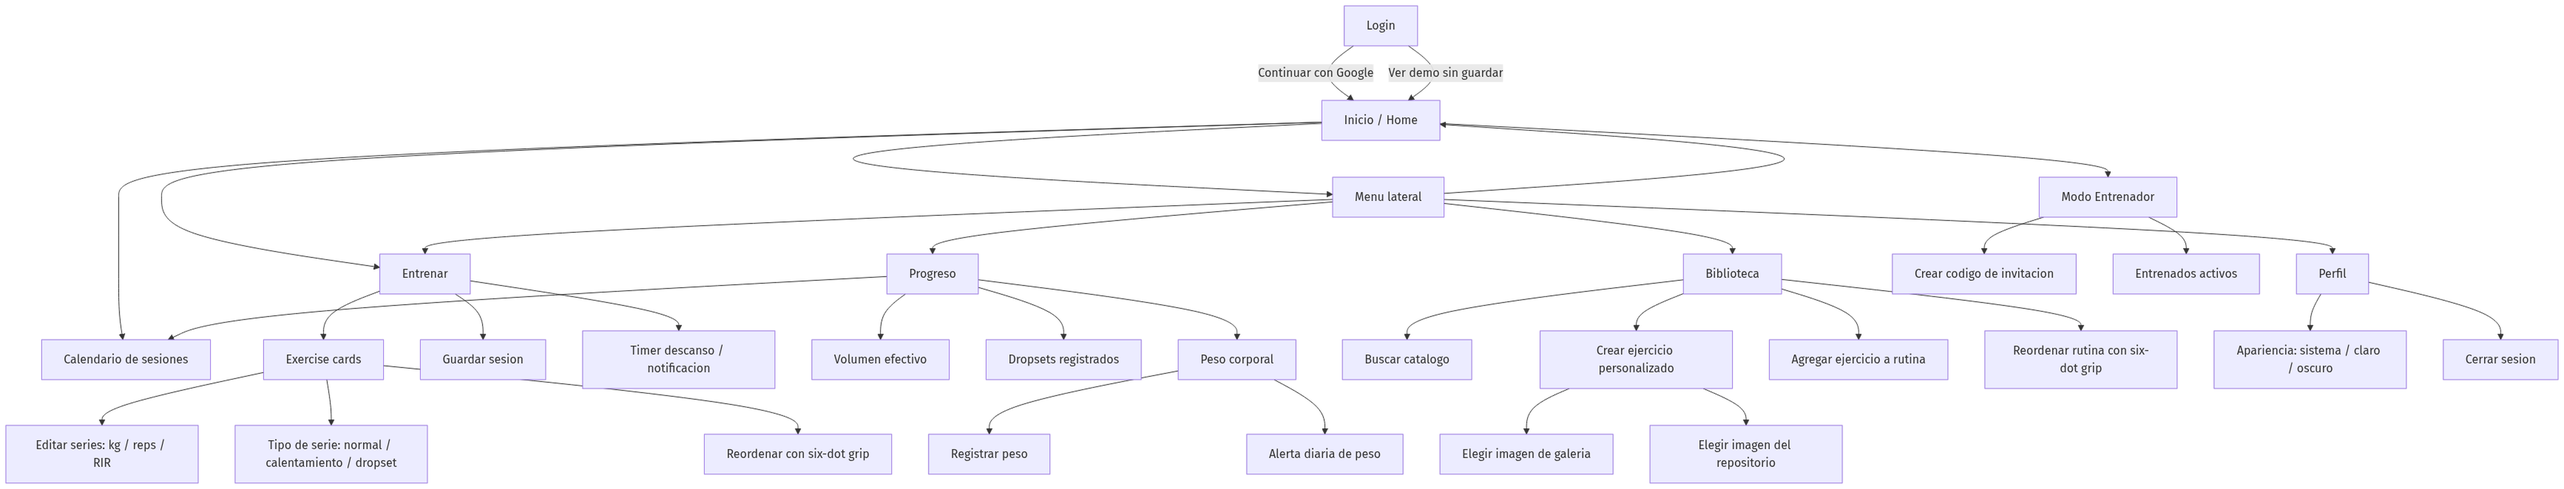
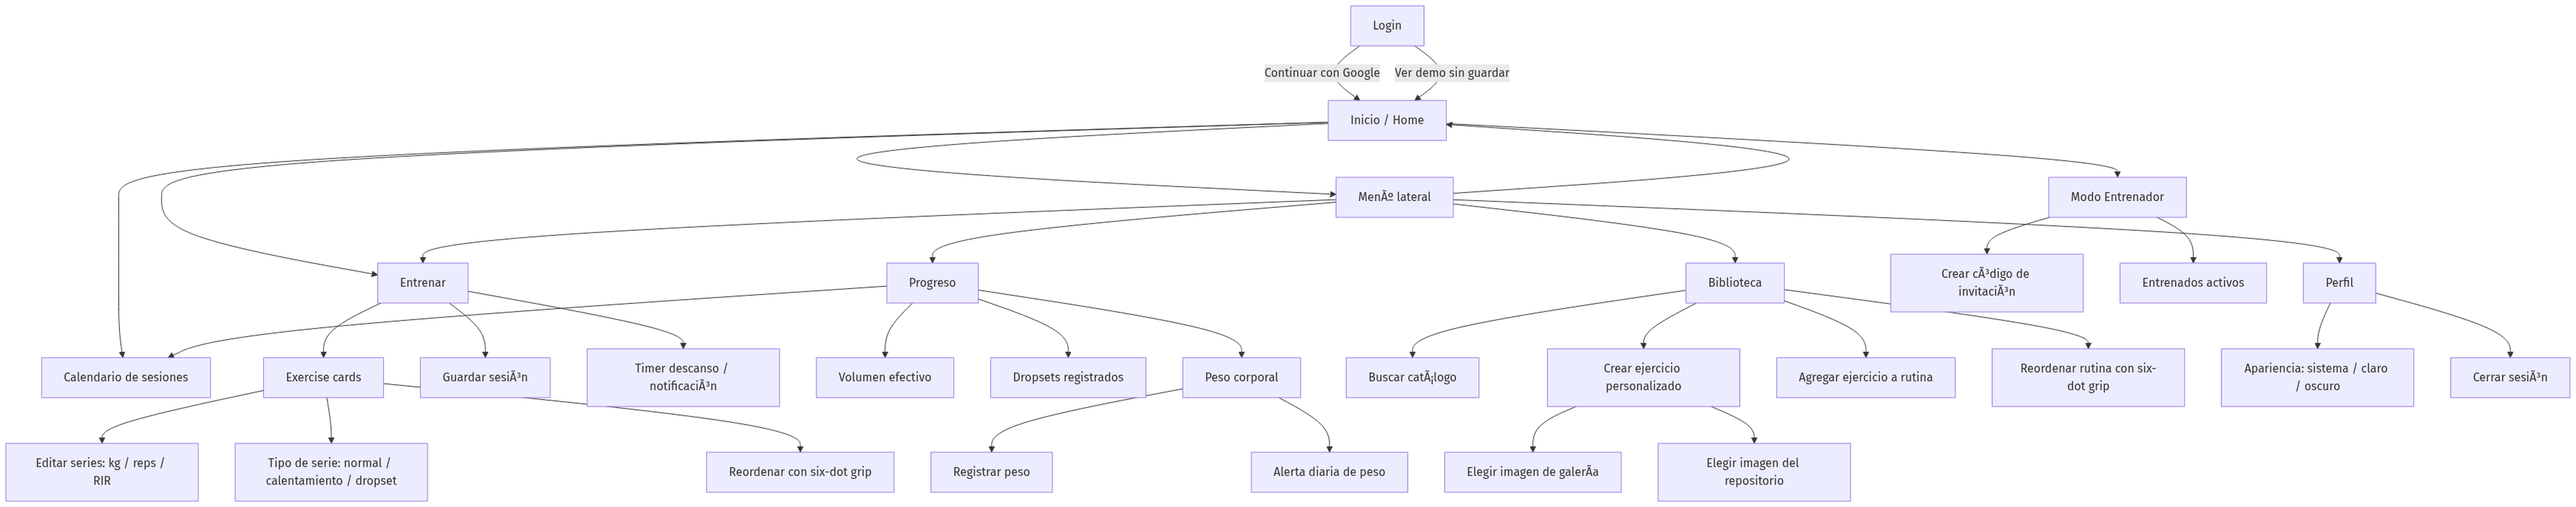
fix: restore Spanish diacritics in Flutter UI

diff --git a/apps/agujetas_flutter/lib/main.dart b/apps/agujetas_flutter/lib/main.dart
@@ -170,13 +170,13 @@ class _LoginScreenState extends State<LoginScreen> {
                   ),
                   const SizedBox(height: 24),
                   Text(
-                    'Entrena con precision.',
+                    'Entrena con precisión.',
                     style: Theme.of(context).textTheme.titleLarge,
                     textAlign: TextAlign.center,
                   ),
                   const SizedBox(height: 8),
                   Text(
-                    'Registra tu progreso con elegancia y manten el foco en lo que importa.',
+                    'Registra tu progreso con elegancia y mantén el foco en lo que importa.',
                     style: Theme.of(context).textTheme.bodyMedium?.copyWith(
                       color: colors.textSecondary,
                     ),
@@ -213,7 +213,7 @@ class _LoginScreenState extends State<LoginScreen> {
                   ),
                   const SizedBox(height: 14),
                   Text(
-                    'Al continuar, aceptas la sincronizacion segura de tus entrenamientos via Firebase Auth y Firestore. No usamos Storage en el plan gratuito.',
+                    'Al continuar, aceptas la sincronización segura de tus entrenamientos vía Firebase Auth y Firestore. No usamos Storage en el plan gratuito.',
                     style: Theme.of(context).textTheme.labelMedium,
                     textAlign: TextAlign.center,
                   ),
@@ -236,7 +236,7 @@ class _LoginScreenState extends State<LoginScreen> {
     try {
       await widget.repository.signInWithGoogle();
     } catch (error) {
-      setState(() => _error = 'No se pudo iniciar sesion: $error');
+      setState(() => _error = 'No se pudo iniciar sesión: $error');
     } finally {
       if (mounted) {
         setState(() => _loading = false);
@@ -254,7 +254,7 @@ class _LoginFeatureRow extends StatelessWidget {
     const items = [
       (Icons.sync, 'Sincronizar'),
       (Icons.insights, 'Progreso'),
-      (Icons.library_books_outlined, 'Catalogo'),
+      (Icons.library_books_outlined, 'Catálogo'),
     ];
     return Row(
       mainAxisAlignment: MainAxisAlignment.spaceEvenly,
@@ -471,7 +471,7 @@ class _HomeDashboardState extends State<HomeDashboard> {
     try {
       final invite = await widget.repository.createTrainerInvite(widget.user);
       widget.onInviteCreated(invite.code);
-      widget.onNotice('Codigo de invitacion creado: ${invite.code}');
+      widget.onNotice('Código de invitación creado: ${invite.code}');
     } finally {
       if (mounted) setState(() => _busy = false);
     }
@@ -491,7 +491,7 @@ class _HomeDashboardState extends State<HomeDashboard> {
       );
       _inviteController.clear();
     } catch (error) {
-      widget.onNotice('No se pudo aceptar el codigo: $error');
+      widget.onNotice('No se pudo aceptar el código: $error');
     } finally {
       if (mounted) setState(() => _busy = false);
     }
@@ -521,11 +521,11 @@ class _TrainerPanel extends StatelessWidget {
           icon: Icons.group_add_outlined,
           title: 'Sumar entrenados',
           subtitle: inviteCode == null
-              ? 'Genera un codigo para vincular usuarios.'
-              : 'Codigo activo: $inviteCode',
+              ? 'Genera un código para vincular usuarios.'
+              : 'Código activo: $inviteCode',
           action: FilledButton(
             onPressed: busy ? null : onCreateInvite,
-            child: Text(inviteCode == null ? 'Crear codigo' : 'Crear otro'),
+            child: Text(inviteCode == null ? 'Crear código' : 'Crear otro'),
           ),
         ),
         StreamBuilder<List<TrainerClientLink>>(
@@ -536,7 +536,7 @@ class _TrainerPanel extends StatelessWidget {
               icon: Icons.assignment_ind_outlined,
               title: 'Entrenados activos',
               subtitle: clients.isEmpty
-                  ? 'Aun no hay vinculaciones.'
+                  ? 'Aún no hay vinculaciones.'
                   : '${clients.length} usuarios vinculados',
               child: Column(
                 children: clients
@@ -560,7 +560,7 @@ class _TrainerPanel extends StatelessWidget {
           icon: Icons.flag_outlined,
           title: 'Metas y tareas',
           subtitle:
-              'Asigna volumen semanal, habitos, sesiones y objetivos medibles.',
+              'Asigna volumen semanal, hábitos, sesiones y objetivos medibles.',
         ),
       ],
     );
@@ -592,14 +592,14 @@ class _AthletePanel extends StatelessWidget {
           icon: Icons.link_outlined,
           title: 'Vincular entrenador',
           subtitle:
-              'Ingresa un codigo si un entrenador te comparte rutina o schedule.',
+              'Ingresa un código si un entrenador te comparte rutina o schedule.',
           child: Row(
             children: [
               Expanded(
                 child: TextField(
                   controller: controller,
                   textCapitalization: TextCapitalization.characters,
-                  decoration: const InputDecoration(labelText: 'Codigo'),
+                  decoration: const InputDecoration(labelText: 'Código'),
                 ),
               ),
               const SizedBox(width: 8),
@@ -685,7 +685,7 @@ class SessionModeSelector extends StatelessWidget {
   @override
   Widget build(BuildContext context) {
     final colors = context.appColors;
-    const modes = ['Fuerza', 'Hipertrofia', 'Tecnica', 'Libre'];
+    const modes = ['Fuerza', 'Hipertrofia', 'Técnica', 'Libre'];
     return Container(
       margin: const EdgeInsets.only(bottom: 12),
       padding: const EdgeInsets.all(4),
@@ -732,7 +732,7 @@ class RecommendedWorkoutCard extends StatelessWidget {
     return DashboardCard(
       icon: Icons.fitness_center,
       title: 'Empuje A',
-      subtitle: 'Pecho, hombro y triceps',
+      subtitle: 'Pecho, hombro y tríceps',
       action: _SoftChip(
         label: 'Recomendado hoy',
         color: colors.primaryStrong,
@@ -845,7 +845,7 @@ class TrainScreen extends StatelessWidget {
           }
           if (context.mounted) {
             ScaffoldMessenger.of(context).showSnackBar(
-              const SnackBar(content: Text('Sesion guardada en Firebase')),
+              const SnackBar(content: Text('Sesión guardada en Firebase')),
             );
           }
         },
@@ -1362,7 +1362,7 @@ class BodyWeightCard extends StatelessWidget {
           icon: Icons.monitor_weight_outlined,
           title: 'Peso corporal',
           subtitle: latest == null
-              ? 'Sin registros todavia. Activá alertas y cargá tu primer peso.'
+              ? 'Sin registros todavía. Activa alertas y carga tu primer peso.'
               : '${latest.weightKg.toStringAsFixed(1)} kg registrados recientemente',
           action: FilledButton(
             onPressed: () => _openWeightSheet(context),
@@ -1470,7 +1470,7 @@ class SessionCalendarSheet extends StatelessWidget {
       ('X', 'Pull', true),
       ('J', 'Piernas', false),
       ('V', 'Empuje A', false),
-      ('S', 'Tecnica', false),
+      ('S', 'Técnica', false),
       ('D', 'Descanso', false),
     ];
     return ListView(
@@ -1563,7 +1563,7 @@ class ProgressScreen extends StatelessWidget {
           icon: Icons.timeline_outlined,
           title: 'Dropsets registrados',
           subtitle:
-              '${workingSets.where((set) => set.setType == SetType.dropset).length} series con reduccion de peso',
+              '${workingSets.where((set) => set.setType == SetType.dropset).length} series con reducción de peso',
           child: const _ProgressBar(value: 0.42),
         ),
         BodyWeightCard(user: user, repository: repository),
@@ -1571,7 +1571,7 @@ class ProgressScreen extends StatelessWidget {
           icon: Icons.calendar_month_outlined,
           title: 'Calendario',
           subtitle:
-              'Schedules y metas asignadas viven aca, no en configuracion.',
+              'Schedules y metas asignadas viven acá, no en configuración.',
           onTap: onOpenCalendar,
           action: Icon(
             Icons.chevron_right,
@@ -1615,7 +1615,7 @@ class _LibraryScreenState extends State<LibraryScreen> {
           onChanged: (value) => setState(() => _query = value.trim()),
           decoration: InputDecoration(
             prefixIcon: const Icon(Icons.search),
-            hintText: 'Buscar ejercicio, musculo o rutina',
+            hintText: 'Buscar ejercicio, músculo o rutina',
             suffixIcon: IconButton(
               tooltip: 'Filtros',
               onPressed: () {},
@@ -1627,7 +1627,7 @@ class _LibraryScreenState extends State<LibraryScreen> {
           icon: Icons.add_circle_outline,
           title: 'Ejercicio personalizado',
           subtitle:
-              'Crealo con 3 series predeterminadas y asociale imagen local o del repositorio.',
+              'Crea un ejercicio con 3 series predeterminadas y asócialo a una imagen local o del repositorio.',
           action: FilledButton(
             onPressed: _openCustomExerciseSheet,
             child: const Text('Crear'),
@@ -1687,9 +1687,9 @@ class _LibraryScreenState extends State<LibraryScreen> {
             final filtered = _filterCatalog(catalog).take(8).toList();
             return DashboardCard(
               icon: Icons.dataset_outlined,
-              title: 'Catalogo importado',
+              title: 'Catálogo importado',
               subtitle:
-                  '${catalog.length} ejercicios desde tus JSON y el catalogo Lyfta.',
+                  '${catalog.length} ejercicios desde tus JSON y el catálogo Lyfta.',
               child: Column(
                 children: [
                   for (final item in filtered)
@@ -1911,7 +1911,7 @@ class _CustomExerciseSheetState extends State<CustomExerciseSheet> {
           const SizedBox(height: 10),
           TextField(
             controller: _muscleController,
-            decoration: const InputDecoration(labelText: 'Musculo'),
+            decoration: const InputDecoration(labelText: 'Músculo'),
           ),
           const SizedBox(height: 12),
           Row(
@@ -1935,7 +1935,7 @@ class _CustomExerciseSheetState extends State<CustomExerciseSheet> {
                 child: OutlinedButton.icon(
                   onPressed: _pickGalleryImage,
                   icon: const Icon(Icons.photo_library_outlined),
-                  label: const Text('Galeria'),
+                  label: const Text('Galería'),
                 ),
               ),
               const SizedBox(width: 8),
@@ -2102,7 +2102,7 @@ class ProfileScreen extends StatelessWidget {
         FilledButton.tonalIcon(
           onPressed: repository.signOut,
           icon: const Icon(Icons.logout),
-          label: const Text('Cerrar sesion'),
+          label: const Text('Cerrar sesión'),
         ),
       ],
     );
@@ -2505,7 +2505,7 @@ class StitchSideMenu extends StatelessWidget {
                 ),
               const Spacer(),
               Text(
-                'Calendario, progreso y biblioteca viven como secciones principales; configuracion queda solo para cuenta y preferencias.',
+                'Calendario, progreso y biblioteca viven como secciones principales; configuración queda solo para cuenta y preferencias.',
                 style: Theme.of(context).textTheme.labelMedium,
               ),
             ],

diff --git a/apps/agujetas_flutter/lib/repositories.dart b/apps/agujetas_flutter/lib/repositories.dart
@@ -145,11 +145,11 @@ class FirebaseAgujetasRepository implements AgujetasRepository {
         .get();
     final inviteData = inviteSnap.data();
     if (inviteData == null) {
-      throw StateError('No existe una invitacion con ese codigo.');
+      throw StateError('No existe una invitación con ese código.');
     }
     final invite = TrainerInvite.fromJson(inviteData.cast<String, Object?>());
     if (!invite.active) {
-      throw StateError('La invitacion ya no esta activa.');
+      throw StateError('La invitación ya no está activa.');
     }
     final linkId = '${invite.trainerId}_${client.uid}';
     final link = TrainerClientLink(

diff --git a/apps/agujetas_flutter/lib/notification_service.dart b/apps/agujetas_flutter/lib/notification_service.dart
@@ -45,7 +45,7 @@ class NotificationService {
     await initialize();
     await _plugin.show(
       id: 101,
-      title: 'Sesion guardada',
+      title: 'Sesión guardada',
       body: 'Tu entrenamiento quedo sincronizado en Agujetas.',
       notificationDetails: _details(
         channelId: 'session_status',

diff --git a/apps/agujetas_flutter/docs/ui-navigation-map.md b/apps/agujetas_flutter/docs/ui-navigation-map.md
@@ -1,6 +1,6 @@
 # Agujetas Flutter UI Navigation Map
 
-Este documento describe la estructura navegable de la app Flutter. Debe usarse como contrato de producto para revisar si una pantalla, tarjeta o boton clicable lleva a un destino claro.
+Este documento describe la estructura navegable de la app Flutter. Debe usarse como contrato de producto para revisar si una pantalla, tarjeta o botón clicable lleva a un destino claro.
 
 ## Mapa General
 
@@ -12,7 +12,7 @@ flowchart TD
   B["Inicio / Home"] --> C["Entrenar"]
   B --> D["Calendario de sesiones"]
   B --> E["Modo Entrenador"]
-  B --> F["Menu lateral"]
+  B --> F["Menú lateral"]
 
   F --> B
   F --> C
@@ -24,8 +24,8 @@ flowchart TD
   C1 --> C2["Editar series: kg / reps / RIR"]
   C1 --> C3["Tipo de serie: normal / calentamiento / dropset"]
   C1 --> C4["Reordenar con six-dot grip"]
-  C --> C5["Guardar sesion"]
-  C --> C6["Timer descanso / notificacion"]
+  C --> C5["Guardar sesión"]
+  C --> C6["Timer descanso / notificación"]
 
   G["Progreso"] --> G1["Volumen efectivo"]
   G --> G2["Dropsets registrados"]
@@ -34,17 +34,17 @@ flowchart TD
   G3 --> G5["Alerta diaria de peso"]
   G --> D
 
-  H["Biblioteca"] --> H1["Buscar catalogo"]
+  H["Biblioteca"] --> H1["Buscar catálogo"]
   H --> H2["Crear ejercicio personalizado"]
-  H2 --> H3["Elegir imagen de galeria"]
+  H2 --> H3["Elegir imagen de galería"]
   H2 --> H4["Elegir imagen del repositorio"]
   H --> H5["Agregar ejercicio a rutina"]
   H --> H6["Reordenar rutina con six-dot grip"]
 
   I["Perfil"] --> I1["Apariencia: sistema / claro / oscuro"]
-  I --> I2["Cerrar sesion"]
+  I --> I2["Cerrar sesión"]
 
-  E["Modo Entrenador"] --> E1["Crear codigo de invitacion"]
+  E["Modo Entrenador"] --> E1["Crear código de invitación"]
   E --> E2["Entrenados activos"]
 ```
 
@@ -54,41 +54,41 @@ flowchart TD
 | --- | --- | --- | --- |
 | Login | App sin usuario autenticado | Continuar con Google | Inicio autenticado |
 | Login | App sin usuario autenticado | Ver demo sin guardar | Inicio con `DemoAgujetasRepository` |
-| Inicio | Bottom nav, login, menu lateral | Iniciar entrenamiento | Entrenar |
+| Inicio | Bottom nav, login, menú lateral | Iniciar entrenamiento | Entrenar |
 | Inicio | Card calendario | Ver calendario de sesiones | Bottom sheet de calendario |
 | Inicio | Modo de uso | Cambiar Normal / Entrenador | Inicio en modo elegido |
-| Entrenar | Bottom nav, CTA inicio, menu lateral | Editar kg / reps / RIR | Misma pantalla, estado actualizado |
+| Entrenar | Bottom nav, CTA inicio, menú lateral | Editar kg / reps / RIR | Misma pantalla, estado actualizado |
 | Entrenar | Grip six dots | Reordenar ejercicios | Misma pantalla, orden actualizado |
-| Entrenar | Menu mover | Mover arriba / abajo | Misma pantalla, orden actualizado |
-| Entrenar | Guardar | Persistir sesion | Firestore `sessions` y snackbar |
-| Entrenar | Timer descanso | Programar alerta | Notificacion local |
-| Progreso | Bottom nav, menu lateral | Registrar peso | Bottom sheet de peso |
-| Progreso | Alertarme cada manana | Programar alerta diaria | Notificacion local diaria |
+| Entrenar | Menú mover | Mover arriba / abajo | Misma pantalla, orden actualizado |
+| Entrenar | Guardar | Persistir sesión | Firestore `sessions` y snackbar |
+| Entrenar | Timer descanso | Programar alerta | Notificación local |
+| Progreso | Bottom nav, menú lateral | Registrar peso | Bottom sheet de peso |
+| Progreso | Alertarme cada mañana | Programar alerta diaria | Notificación local diaria |
 | Progreso | Calendario | Ver calendario de sesiones | Bottom sheet de calendario |
-| Biblioteca | Bottom nav, menu lateral | Buscar catalogo | Lista filtrada |
+| Biblioteca | Bottom nav, menú lateral | Buscar catálogo | Lista filtrada |
 | Biblioteca | Crear ejercicio personalizado | Formulario de ejercicio | Nuevo ejercicio en rutina y Firestore |
-| Biblioteca | Elegir imagen de galeria | Selector nativo | `imageUri` local asociado |
+| Biblioteca | Elegir imagen de galería | Selector nativo | `imageUri` local asociado |
 | Biblioteca | Elegir imagen del repositorio | Selector interno | `app-image://...` asociado |
 | Biblioteca | Agregar ejercicio | Agregar a rutina activa | Entrenamiento actual actualizado |
 | Biblioteca | Grip six dots | Reordenar rutina | Misma pantalla, orden actualizado |
-| Perfil | Bottom nav, menu lateral | Cambiar tema | ThemeMode actualizado |
-| Perfil | Cerrar sesion | Sign out | Login |
-| Panel entrenador | Inicio en modo entrenador | Crear codigo | Firestore `trainerInvites` |
+| Perfil | Bottom nav, menú lateral | Cambiar tema | ThemeMode actualizado |
+| Perfil | Cerrar sesión | Sign out | Login |
+| Panel entrenador | Inicio en modo entrenador | Crear código | Firestore `trainerInvites` |
 | Panel entrenador | Inicio en modo entrenador | Ver entrenados activos | Lista desde `trainerClientLinks` |
 
 ## Reglas De Interaccion
 
-- El grip six dots es el unico punto que debe iniciar drag and drop.
-- Tocar la tarjeta debe abrir, editar o ejecutar la accion principal; no debe competir con el gesto de arrastre.
+- El grip six dots es el único punto que debe iniciar drag and drop.
+- Tocar la tarjeta debe abrir, editar o ejecutar la acción principal; no debe competir con el gesto de arrastre.
 - El drag debe iniciar de forma inmediata desde el handle, sin long-press perceptible.
-- El area tactil minima del handle debe ser 44 x 44 px.
+- El área táctil mínima del handle debe ser 44 x 44 px.
 - Todo reorder debe tener alternativa accesible: mover arriba y mover abajo.
 - Cada tarjeta clicable debe tener feedback visual y destino claro.
 - Las transiciones deben ser cortas, reversibles y no bloquear el flujo de entrenamiento.
 
 ## Pendientes UX
 
-- Validar drag and drop en Android real con grabacion de pantalla, no solo con screenshot.
+- Validar drag and drop en Android real con grabación de pantalla, no solo con screenshot.
 - Definir detalle de ejercicio como pantalla propia si el usuario necesita historial por ejercicio.
 - Decidir si el calendario debe pasar de bottom sheet a pantalla completa cuando haya schedules reales.
-- Agregar rutas declarativas si la app crece mas alla de cinco tabs y modales.
+- Agregar rutas declarativas si la app crece más allá de cinco tabs y modales.
